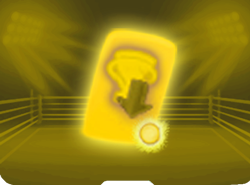
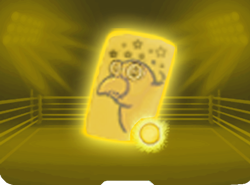
tweak Red Penalty card; tweak Forge Flames power; new Yellow Penalty Card art

Changed region(s): [[0.336, 0.1579, 0.7, 0.7632]]

diff --git a/src/main/java/thewrestler/powers/trademarkmoves/FlamesOfTheHammerPower.java b/src/main/java/thewrestler/powers/trademarkmoves/FlamesOfTheHammerPower.java
@@ -9,6 +9,7 @@ import com.megacrit.cardcrawl.core.CardCrawlGame;
 import com.megacrit.cardcrawl.dungeons.AbstractDungeon;
 import com.megacrit.cardcrawl.localization.PowerStrings;
 import com.megacrit.cardcrawl.powers.AbstractPower;
+import com.megacrit.cardcrawl.rooms.AbstractRoom;
 import com.megacrit.cardcrawl.vfx.combat.FlashAtkImgEffect;
 import thewrestler.WrestlerMod;
 import thewrestler.powers.AbstractWrestlerPower;
@@ -33,16 +34,17 @@ public class FlamesOfTheHammerPower extends AbstractWrestlerPower implements Clo
   }
 
   @Override
-  public void atEndOfTurn(boolean isPlayer) {
-    this.flash();
+  public void atStartOfTurn() {
+    if ((AbstractDungeon.getCurrRoom().phase == AbstractRoom.RoomPhase.COMBAT) &&
+        (!AbstractDungeon.getMonsters().areMonstersBasicallyDead())) {
+      AbstractDungeon.effectList.add(new FlashAtkImgEffect(this.owner.hb.cX, this.owner.hb.cY, AbstractGameAction.AttackEffect.FIRE));
+      this.owner.damage(new DamageInfo(this.source, this.amount, DamageInfo.DamageType.THORNS));
 
-    AbstractDungeon.effectList.add(new FlashAtkImgEffect(this.owner.hb.cX, this.owner.hb.cY, AbstractGameAction.AttackEffect.FIRE));
-    this.owner.damage(new DamageInfo(this.source, this.amount, DamageInfo.DamageType.THORNS));
-
-    if ((this.owner.isDying || this.owner.currentHealth <= 0) && (!this.owner.halfDead)) {
-      AbstractDungeon.actionManager.addToTop(new MakeTempCardInHandAction(new BurningHammer()));
-      if (AbstractDungeon.getCurrRoom().monsters.areMonstersBasicallyDead()) {
-        AbstractDungeon.actionManager.clearPostCombatActions();
+      if ((this.owner.isDying || this.owner.currentHealth <= 0) && (!this.owner.halfDead)) {
+        AbstractDungeon.actionManager.addToTop(new MakeTempCardInHandAction(new BurningHammer()));
+        if (AbstractDungeon.getCurrRoom().monsters.areMonstersBasicallyDead()) {
+          AbstractDungeon.actionManager.clearPostCombatActions();
+        }
       }
     }
   }

diff --git a/src/main/java/thewrestler/cards/colorless/status/penalty/RedPenaltyStatusCard.java b/src/main/java/thewrestler/cards/colorless/status/penalty/RedPenaltyStatusCard.java
@@ -10,6 +10,7 @@ import com.megacrit.cardcrawl.core.CardCrawlGame;
 import com.megacrit.cardcrawl.dungeons.AbstractDungeon;
 import com.megacrit.cardcrawl.localization.CardStrings;
 import com.megacrit.cardcrawl.monsters.AbstractMonster;
+import com.megacrit.cardcrawl.powers.LoseStrengthPower;
 import com.megacrit.cardcrawl.powers.StrengthPower;
 import thewrestler.keywords.CustomTooltipKeywords;
 import thewrestler.orbs.BasePenaltyOrb;
@@ -28,7 +29,7 @@ public class RedPenaltyStatusCard extends AbstractPenaltyStatusCard {
 
   private static final CardStrings cardStrings;
 
-  private static final int STRENGTH_GAIN = 2;
+  private static final int STRENGTH_GAIN = 3;
   private static final int DAMAGE = 5;
 
   public RedPenaltyStatusCard() {
@@ -41,6 +42,8 @@ public class RedPenaltyStatusCard extends AbstractPenaltyStatusCard {
   public void triggerOnCardUsed(AbstractPlayer p, AbstractMonster m) {
     AbstractDungeon.actionManager.addToBottom(
         new ApplyPowerAction(p, p, new StrengthPower(p, STRENGTH_GAIN), STRENGTH_GAIN));
+    AbstractDungeon.actionManager.addToBottom(
+        new ApplyPowerAction(p, p, new LoseStrengthPower(p, STRENGTH_GAIN),STRENGTH_GAIN));
   }
 
   @Override

diff --git a/src/main/java/thewrestler/cards/colorless/status/penalty/YellowPenaltyStatusCard.java b/src/main/java/thewrestler/cards/colorless/status/penalty/YellowPenaltyStatusCard.java
@@ -3,7 +3,9 @@ package thewrestler.cards.colorless.status.penalty;
 import com.badlogic.gdx.graphics.Color;
 import com.megacrit.cardcrawl.actions.common.ApplyPowerAction;
 import com.megacrit.cardcrawl.actions.common.MakeTempCardInDiscardAction;
+import com.megacrit.cardcrawl.actions.common.MakeTempCardInDrawPileAction;
 import com.megacrit.cardcrawl.actions.common.ReducePowerAction;
+import com.megacrit.cardcrawl.cards.AbstractCard;
 import com.megacrit.cardcrawl.cards.status.Dazed;
 import com.megacrit.cardcrawl.characters.AbstractPlayer;
 import com.megacrit.cardcrawl.core.CardCrawlGame;
@@ -81,7 +83,7 @@ public class YellowPenaltyStatusCard extends AbstractPenaltyStatusCard {
   @Override
   public void triggerOnCardGained() {
     AbstractPlayer p = AbstractDungeon.player;
-    AbstractDungeon.actionManager.addToTop(new MakeTempCardInDiscardAction(new Dazed(), this.magicNumber));
+    AbstractDungeon.actionManager.addToTop(new MakeTempCardInDrawPileAction(new Dazed(), this.magicNumber, true, true));
     AbstractDungeon.actionManager.addToBottom(new ReducePowerAction(p, p, BravadoPower.POWER_ID, this.magicNumber));
   }
 }
